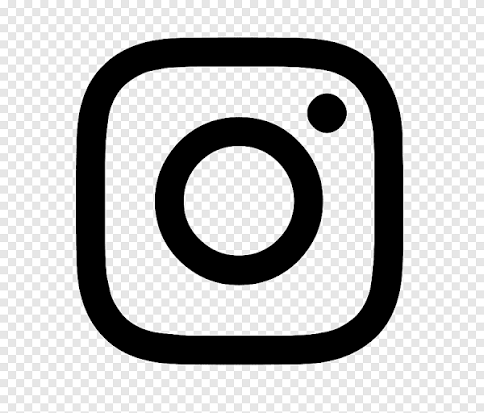
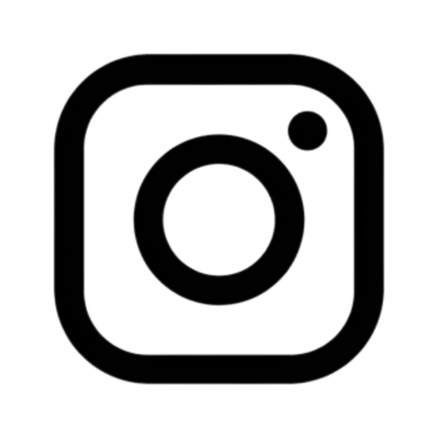
Differentiate package tiers and refine mobile branding

diff --git a/app/globals.css b/app/globals.css
@@ -1,5 +1,13 @@
 @import "tailwindcss";
 
+@font-face {
+  font-family: "A11 Calligraphy";
+  src: url("/fonts/yuji-syuku-a11.ttf") format("truetype");
+  font-display: swap;
+  font-style: normal;
+  font-weight: 400;
+}
+
 :root {
   --brown: #694728;
   --brown-deep: #35271d;
@@ -67,12 +75,11 @@ button, a { -webkit-tap-highlight-color: transparent; }
 .header-socials { display: flex; align-items: center; gap: 8px; }
 .header-social-link { width: 46px; height: 46px; display: grid; place-items: center; overflow: hidden; border: 1px solid rgba(105,71,40,.2); border-radius: 50%; color: var(--brown-deep); background: rgba(255,253,248,.6); transition: color .25s ease, border-color .25s ease, background .25s ease, transform .35s cubic-bezier(.16,1,.3,1); }
 .header-social-link:hover, .header-social-link:focus-visible { color: var(--brown); border-color: rgba(105,71,40,.55); background: var(--paper); transform: translateY(-3px); outline: none; }
-.social-logo-image { display: block; width: 31px; height: 31px; object-fit: contain; }
-.social-logo-line { width: 34px; height: 28px; }
-.social-logo-xiaohongshu { width: 46px; height: 46px; object-fit: cover; transform: scale(1.42); }
-.header-social-hiwin { width: 112px; height: 46px; margin-left: 7px; padding-left: 16px; overflow: visible; border: 0; border-left: 1px solid var(--line); border-radius: 0; background: transparent; }
+.social-logo-image { display: block; width: 31px; height: 31px; object-fit: contain; mix-blend-mode: multiply; }
+.social-logo-line, .social-logo-xiaohongshu { width: 31px; height: 31px; object-fit: contain; transform: none; }
+.header-social-hiwin { width: 156px; height: 52px; margin-left: 9px; padding-left: 19px; overflow: visible; border: 0; border-left: 1px solid var(--line); border-radius: 0; background: transparent; }
 .header-social-hiwin:hover, .header-social-hiwin:focus-visible { border-color: var(--beige); background: transparent; }
-.header-social-hiwin img { width: 94px; height: auto; object-fit: contain; }
+.header-social-hiwin img { width: 136px; height: auto; object-fit: contain; }
 .button { display: inline-flex; justify-content: center; align-items: center; min-height: 50px; padding: 0 24px; background: var(--brown); color: white; border: 1px solid var(--brown); border-radius: 999px; font-size: .82rem; letter-spacing: .04em; transition: transform .25s ease, background .25s ease; cursor: pointer; }
 .button:hover { transform: translateY(-2px); background: #583b22; }
 .button-small { min-height: 42px; padding-inline: 19px; white-space: nowrap; }
@@ -122,7 +129,7 @@ h3 { margin-bottom: 14px; font-size: clamp(1.45rem, 2.2vw, 2rem); }
 .section-compact { padding: 72px 0; }
 .section-tint { background: var(--beige-soft); }
 .section-paper { background: var(--paper); }
-.section-heading { max-width: 760px; margin-bottom: 48px; }
+.section-heading { max-width: 900px; margin-bottom: 48px; }
 .section-heading > p:last-child { max-width: 640px; color: #5d554d; font-size: 1.05rem; }
 .split { display: grid; grid-template-columns: 1fr 1fr; gap: 80px; align-items: start; }
 .split-copy { max-width: 540px; }
@@ -289,6 +296,25 @@ h3 { margin-bottom: 14px; font-size: clamp(1.45rem, 2.2vw, 2rem); }
 .package-showcase:has(.package-showcase-card:hover) .package-showcase-card:not(:hover) .package-showcase-image img { filter: saturate(.78) brightness(.9); }
 .package-showcase-image-shade { position: absolute; inset: 0; background: linear-gradient(180deg, transparent 45%, rgba(40,28,18,.24)); pointer-events: none; }
 .package-showcase-copy { position: relative; min-width: 0; display: flex; flex-direction: column; padding: 32px 28px 70px; }
+.package-level-meter { position: absolute; z-index: 2; top: 16px; right: 16px; height: 42px; padding: 9px 11px; display: flex; align-items: flex-end; gap: 5px; border: 1px solid rgba(255,255,255,.32); border-radius: 999px; background: rgba(44,31,22,.34); backdrop-filter: blur(12px); }
+.package-level-meter i { width: 3px; border-radius: 999px; background: rgba(255,255,255,.34); }
+.package-level-meter i:nth-child(1) { height: 8px; }
+.package-level-meter i:nth-child(2) { height: 14px; }
+.package-level-meter i:nth-child(3) { height: 20px; }
+.package-level-meter i.is-active { background: #f1d8b8; box-shadow: 0 0 10px rgba(241,216,184,.34); }
+.package-showcase-card-essential { background: #fffdf8; }
+.package-showcase-card-essential .package-tier { background: rgba(255,253,248,.94); }
+.package-showcase-card-signature { border-color: rgba(150,104,59,.42); background: linear-gradient(145deg, #f7ecde, #ead5ba); box-shadow: 0 20px 54px rgba(112,73,38,.1); }
+.package-showcase-card-signature .package-tier { background: rgba(153,105,60,.92); color: white; }
+.package-showcase-card-signature .package-showcase-copy { background: linear-gradient(145deg, rgba(255,253,248,.5), rgba(222,194,160,.2)); }
+.package-showcase-card-prestige { border-color: rgba(216,188,154,.58); background: linear-gradient(145deg, #3c2c21, #241b15); box-shadow: 0 22px 60px rgba(39,27,19,.24); }
+.package-showcase-card-prestige .package-tier { border: 1px solid rgba(240,215,184,.32); background: rgba(45,32,23,.84); color: #f0d7b8; }
+.package-showcase-card-prestige .package-showcase-image-shade { background: linear-gradient(180deg, rgba(31,22,16,.04) 35%, rgba(31,22,16,.62)); }
+.package-showcase-card-prestige :is(h3, .package-showcase-price strong, .package-showcase-pillar b, .arrow-link) { color: #fff8ee; }
+.package-showcase-card-prestige :is(.eyebrow, .package-showcase-price small, .package-showcase-summary, .package-showcase-reason, .package-showcase-pillar p) { color: rgba(255,248,238,.7); }
+.package-showcase-card-prestige .package-showcase-reason span, .package-showcase-card-prestige .package-showcase-pillar > span { color: #e4c39d; }
+.package-showcase-card-prestige .package-showcase-pillar::before { background: linear-gradient(90deg, rgba(228,195,157,.72), rgba(228,195,157,.08)); }
+.package-showcase-card-prestige .arrow-link:hover, .package-showcase-card-prestige .arrow-link:focus-visible { color: #e4c39d; }
 .package-showcase-heading { display: grid; grid-template-columns: 1fr; gap: 10px; align-items: start; padding-top: 4px; }
 .package-showcase-heading h3 { margin: 2px 0 8px; font-size: clamp(1.75rem, 2.5vw, 2.55rem); line-height: 1.06; white-space: nowrap; }
 .package-showcase-price { display: grid; justify-items: start; color: var(--brown); }
@@ -305,7 +331,7 @@ h3 { margin-bottom: 14px; font-size: clamp(1.45rem, 2.2vw, 2rem); }
 .package-showcase-pillar { position: relative; display: grid; grid-template-columns: 32px 64px minmax(0, 1fr); gap: 10px; align-items: center; min-height: 43px; padding: 8px 0; }
 .package-showcase-pillar::before { content: ""; position: absolute; top: 0; left: 0; width: 100%; height: 1px; background: linear-gradient(90deg, var(--beige), rgba(105,71,40,.1)); transform: scaleX(0); transform-origin: left; transition: transform .72s cubic-bezier(.16,1,.3,1) calc(.62s + var(--pillar-order) * 45ms); }
 .package-showcase-card:hover .package-showcase-pillar::before { transform: scaleX(1); }
-.package-showcase-pillar > span { color: var(--brown); font-family: "Yu Mincho", Georgia, serif; font-size: 1.35rem; }
+.package-showcase-pillar > span { color: var(--brown); font-family: "A11 Calligraphy", "Yu Mincho", Georgia, serif; font-size: 1.55rem; line-height: 1; }
 .package-showcase-pillar b { color: var(--brown); font-size: .66rem; letter-spacing: .1em; text-transform: uppercase; }
 .package-showcase-pillar p { margin: 0; color: #5f564d; font-size: .78rem; white-space: nowrap; overflow: hidden; text-overflow: ellipsis; }
 .package-showcase-actions { position: absolute; z-index: 6; right: 28px; bottom: 22px; display: flex; justify-content: flex-end; }
@@ -333,9 +359,9 @@ h3 { margin-bottom: 14px; font-size: clamp(1.45rem, 2.2vw, 2rem); }
 .service-pillar-copy { position: relative; min-height: 285px; padding: 24px; overflow: hidden; }
 .service-pillar-copy h2, .service-pillar-copy h3 { position: relative; z-index: 1; font-size: clamp(1.65rem, 2.5vw, 2.25rem); }
 .service-pillar-copy > p { position: relative; z-index: 1; color: #62584f; font-size: .82rem; }
-.service-kanji { position: absolute; right: -4px; bottom: -20px; color: var(--brown); font-family: "Yu Mincho", Georgia, serif; font-size: 9rem; line-height: 1; opacity: .07; }
+.service-kanji { position: absolute; right: -18px; bottom: -38px; color: var(--brown); font-family: "A11 Calligraphy", "Yu Mincho", Georgia, serif; font-size: 12.5rem; font-weight: 400; line-height: .9; opacity: .08; transform: rotate(-4deg); }
 .comparison-row { display: grid; grid-template-columns: repeat(5, 1fr); overflow: hidden; border: 1px solid var(--line); border-radius: 18px; background: var(--paper); }
-.comparison-row span { display: grid; gap: 8px; place-items: center; padding: 28px 16px; border-right: 1px solid var(--line); color: var(--brown); font-family: "Yu Mincho", Georgia, serif; font-size: 2.5rem; }
+.comparison-row span { display: grid; gap: 8px; place-items: center; padding: 28px 16px; border-right: 1px solid var(--line); color: var(--brown); font-family: "A11 Calligraphy", "Yu Mincho", Georgia, serif; font-size: 3rem; }
 .comparison-row span:last-child { border-right: 0; }
 .comparison-row b { font-family: var(--font); font-size: .72rem; letter-spacing: .12em; text-transform: uppercase; }
 
@@ -376,7 +402,7 @@ h3 { margin-bottom: 14px; font-size: clamp(1.45rem, 2.2vw, 2rem); }
 .package-chapter-copy { display: flex; flex-direction: column; justify-content: center; padding: clamp(42px, 5vw, 88px); }
 .package-chapter-number { display: flex; justify-content: space-between; align-items: start; margin-bottom: 42px; color: var(--brown); }
 .package-chapter-number span { font-size: .72rem; font-weight: 750; letter-spacing: .16em; }
-.package-chapter-number b { color: var(--beige); font-family: "Yu Mincho", Georgia, serif; font-size: clamp(3.8rem, 5vw, 6rem); font-weight: 400; line-height: .7; }
+.package-chapter-number b { color: var(--beige); font-family: "A11 Calligraphy", "Yu Mincho", Georgia, serif; font-size: clamp(4.4rem, 6vw, 7.2rem); font-weight: 400; line-height: .7; }
 .package-chapter-copy h2 { max-width: 10ch; margin-bottom: 22px; font-size: clamp(2.6rem, 4.5vw, 5.4rem); line-height: .95; }
 .package-chapter-lead { max-width: 660px; color: #544a40; font-size: clamp(1rem, 1.2vw, 1.22rem); line-height: 1.7; }
 .package-chapter-lead sup { color: var(--brown); font-weight: 700; }
@@ -397,7 +423,7 @@ h3 { margin-bottom: 14px; font-size: clamp(1.45rem, 2.2vw, 2rem); }
 .package-confirmation-grid > div:last-child { font-size: 1.08rem; line-height: 1.75; }
 .package-pillar-grid { display: grid; grid-template-columns: repeat(5, 1fr); gap: 1px; overflow: hidden; border: 1px solid var(--line); border-radius: 20px; background: var(--line); }
 .package-pillar { min-height: 300px; padding: 26px; background: var(--ivory); }
-.package-pillar > span { color: var(--brown); font-family: "Yu Mincho", Georgia, serif; font-size: 4.8rem; opacity: .18; }
+.package-pillar > span { color: var(--brown); font-family: "A11 Calligraphy", "Yu Mincho", Georgia, serif; font-size: 6.2rem; line-height: 1; opacity: .18; }
 .package-pillar p:last-child { color: #62584f; font-size: .82rem; }
 
 .partner-grid { display: grid; grid-template-columns: repeat(2, minmax(0, 1fr)); gap: 22px; }
@@ -455,7 +481,7 @@ h3 { margin-bottom: 14px; font-size: clamp(1.45rem, 2.2vw, 2rem); }
 .destination-facts small { color: var(--stone); font-size: .62rem; letter-spacing: .12em; text-transform: uppercase; }
 .destination-pillar-grid { display: grid; gap: 14px; }
 .destination-pillar { display: grid; grid-template-columns: 110px 1fr; gap: 24px; align-items: center; min-height: 180px; padding: 26px 32px; border: 1px solid var(--line); border-radius: 20px; background: var(--ivory); }
-.destination-pillar > span { color: var(--brown); font-family: "Yu Mincho", Georgia, serif; font-size: 5rem; opacity: .18; }
+.destination-pillar > span { color: var(--brown); font-family: "A11 Calligraphy", "Yu Mincho", Georgia, serif; font-size: 6rem; line-height: 1; opacity: .18; }
 .destination-pillar h3 { margin-bottom: 10px; font-size: clamp(1.4rem, 2.3vw, 2rem); }
 .destination-pillar div > p:last-child { margin-bottom: 0; color: #62584f; }
 .destination-highlight-list { border-top: 1px solid var(--line); }
@@ -468,7 +494,7 @@ h3 { margin-bottom: 14px; font-size: clamp(1.45rem, 2.2vw, 2rem); }
 .experience-choice-list article p { margin: 0; color: #554c43; }
 .experience-choice-note { margin-top: 18px; color: var(--stone); font-size: .72rem; }
 
-@media (max-width: 1320px) {
+@media (max-width: 1500px) {
   .header-plan-button { display: none; }
 }
 
@@ -477,7 +503,7 @@ h3 { margin-bottom: 14px; font-size: clamp(1.45rem, 2.2vw, 2rem); }
   .wordmark { width: 220px; }
   .primary-nav, .header-actions { display: none; }
   .mobile-navigation { display: block; justify-self: end; }
-  .mobile-menu-trigger { min-width: 116px; min-height: 48px; padding: 0 18px; display: flex; align-items: center; justify-content: space-between; gap: 16px; border: 1px solid rgba(105,71,40,.38); border-radius: 999px; color: var(--brown-deep); background: rgba(255,253,248,.72); font-size: .7rem; font-weight: 750; letter-spacing: .15em; text-transform: uppercase; list-style: none; cursor: pointer; }
+  .mobile-menu-trigger { width: 48px; min-width: 48px; min-height: 48px; padding: 0; display: grid; place-items: center; border: 1px solid rgba(105,71,40,.38); border-radius: 50%; color: var(--brown-deep); background: rgba(255,253,248,.72); list-style: none; cursor: pointer; }
   .mobile-menu-trigger::-webkit-details-marker { display: none; }
   .mobile-menu-trigger i { position: relative; width: 20px; height: 12px; display: block; }
   .mobile-menu-trigger b { position: absolute; left: 0; width: 20px; height: 1px; background: currentColor; transition: transform .35s cubic-bezier(.16,1,.3,1), top .35s cubic-bezier(.16,1,.3,1); }
@@ -495,8 +521,12 @@ h3 { margin-bottom: 14px; font-size: clamp(1.45rem, 2.2vw, 2rem); }
   .mobile-nav-children a { color: rgba(247,238,228,.72); font-size: .75rem; line-height: 1.35; }
   .mobile-nav-footer { margin-top: 34px; padding-top: 24px; display: flex; align-items: center; justify-content: space-between; gap: 20px; border-top: 1px solid rgba(216,188,154,.3); }
   .mobile-nav-footer .button { flex: 0 1 220px; }
-  .mobile-header-socials .header-social-link { border-color: rgba(255,255,255,.26); background: rgba(255,255,255,.86); }
-  .mobile-header-socials .header-social-hiwin { border: 0; background: white; border-radius: 4px; padding: 0 8px; }
+  .header-socials.mobile-header-socials { justify-content: flex-start; gap: 14px; }
+  .mobile-header-socials .header-social-link { width: 36px; height: 36px; overflow: visible; border: 0; border-radius: 0; background: transparent; }
+  .mobile-header-socials .header-social-link:hover, .mobile-header-socials .header-social-link:focus-visible { border: 0; background: transparent; transform: translateY(-2px); }
+  .mobile-header-socials .social-logo-image { width: 34px; height: 34px; opacity: .9; filter: invert(1); mix-blend-mode: screen; }
+  .mobile-header-socials .header-social-hiwin { width: 118px; height: 36px; margin-left: 2px; padding: 0; border: 0; border-radius: 0; background: transparent; }
+  .mobile-header-socials .header-social-hiwin img { width: 118px; filter: invert(1); opacity: .88; }
   .header-social-link { width: 42px; height: 42px; }
   .header-social-hiwin { width: 100px; height: 42px; padding-left: 14px; }
   .header-social-hiwin img { width: 84px; }
@@ -536,7 +566,7 @@ h3 { margin-bottom: 14px; font-size: clamp(1.45rem, 2.2vw, 2rem); }
   .shell, .narrow { width: min(100% - 30px, 1180px); }
   .nav-row { min-height: 82px; gap: 12px; padding-inline: 15px; }
   .wordmark { width: 155px; }
-  .mobile-menu-trigger { min-width: 104px; min-height: 44px; padding-inline: 16px; }
+  .mobile-menu-trigger { width: 44px; min-width: 44px; min-height: 44px; padding: 0; }
   .mobile-nav-panel { max-height: calc(100svh - 82px); padding: 28px 15px 24px; }
   .mobile-nav-list { gap: 25px 18px; }
   .mobile-nav-parent { grid-template-columns: 22px 1fr; gap: 5px; font-size: 1.08rem; }
@@ -544,7 +574,7 @@ h3 { margin-bottom: 14px; font-size: clamp(1.45rem, 2.2vw, 2rem); }
   .mobile-nav-children a { font-size: .68rem; }
   .mobile-nav-footer { align-items: stretch; flex-direction: column; }
   .mobile-nav-footer .button { width: 100%; flex-basis: auto; }
-  .mobile-header-socials { justify-content: space-between; }
+  .header-socials.mobile-header-socials { justify-content: flex-start; gap: 12px; }
   .header-socials { gap: 4px; }
   .header-social-link { width: 34px; height: 34px; }
   .social-logo-image { width: 24px; height: 24px; }
@@ -569,7 +599,7 @@ h3 { margin-bottom: 14px; font-size: clamp(1.45rem, 2.2vw, 2rem); }
   .service-pillar:last-child, .package-pillar:last-child { grid-column: auto; }
   .comparison-row { display: grid; grid-template-columns: none; grid-auto-flow: column; grid-auto-columns: 72vw; overflow-x: auto; scroll-snap-type: inline mandatory; scrollbar-width: none; }
   .comparison-row::-webkit-scrollbar { display: none; }
-  .comparison-row span { min-height: 150px; grid-template-columns: 1fr; justify-items: center; border-right: 1px solid var(--line); border-bottom: 0; font-size: 2.4rem; scroll-snap-align: start; }
+  .comparison-row span { min-height: 150px; grid-template-columns: 1fr; justify-items: center; border-right: 1px solid var(--line); border-bottom: 0; font-size: 3.3rem; scroll-snap-align: start; }
   .package-detail-hero { width: 100%; min-height: 0; margin-top: 0; border: 0; border-radius: 0; }
   .package-detail-image { min-height: 430px; }
   .package-detail-copy { padding: 58px 20px 64px; }
@@ -625,7 +655,7 @@ h3 { margin-bottom: 14px; font-size: clamp(1.45rem, 2.2vw, 2rem); }
   .destination-detail-visual { min-height: 420px; }
   .destination-detail-copy { padding: 56px 20px; }
   .destination-pillar { grid-template-columns: 64px 1fr; padding: 24px 20px; }
-  .destination-pillar > span { font-size: 3.4rem; }
+  .destination-pillar > span { font-size: 4.4rem; }
   .step { grid-template-columns: 48px 1fr; gap: 20px; }
   .step p { grid-column: 2; }
   .property-hero-copy { padding: 58px 20px; }

diff --git a/components/site-shell.tsx b/components/site-shell.tsx
@@ -44,13 +44,13 @@ const nav: NavItem[] = [
 function HeaderSocialLinks({ mobile = false }: { mobile?: boolean }) {
   return <div className={`header-socials${mobile ? " mobile-header-socials" : ""}`} role="group" aria-label="Social media and company links">
     <Link className="header-social-link" href="https://www.instagram.com/zhuyi_hotel/" target="_blank" rel="noreferrer" aria-label="Apartment Hotel 11 on Instagram" title="Instagram">
-      <Image className="social-logo-image social-logo-instagram" src="/images/social-instagram.png" alt="" width={484} height={413} unoptimized />
+      <Image className="social-logo-image social-logo-instagram" src="/images/social-instagram.png" alt="" width={438} height={438} unoptimized />
     </Link>
     <Link className="header-social-link" href="https://line.me/ti/p/OPyUC3OZo9" target="_blank" rel="noreferrer" aria-label="Apartment Hotel 11 on LINE" title="LINE">
-      <Image className="social-logo-image social-logo-line" src="/images/social-line.png" alt="" width={592} height={337} unoptimized />
+      <Image className="social-logo-image social-logo-line" src="/images/social-line.png" alt="" width={438} height={438} unoptimized />
     </Link>
     <Link className="header-social-link" href="https://www.xiaohongshu.com/user/profile/665d65e4000000000303207a?xhsshare=CopyLink&appuid=665d65e4000000000303207a&apptime=1721635778" target="_blank" rel="noreferrer" aria-label="Apartment Hotel 11 on Xiaohongshu" title="Xiaohongshu">
-      <Image className="social-logo-image social-logo-xiaohongshu" src="/images/social-xiaohongshu.png" alt="" width={447} height={447} unoptimized />
+      <Image className="social-logo-image social-logo-xiaohongshu" src="/images/social-xiaohongshu.png" alt="" width={438} height={438} unoptimized />
     </Link>
     <Link className="header-social-link header-social-hiwin" href="https://hiwin-japan.co.jp/" target="_blank" rel="noreferrer" aria-label="HIWIN corporate website" title="HIWIN Japan">
       <Image src="/images/hiwin_logo.png" alt="" width={1400} height={422} unoptimized />
@@ -60,8 +60,7 @@ function HeaderSocialLinks({ mobile = false }: { mobile?: boolean }) {
 
 function MobileNavigation() {
   return <details className="mobile-navigation">
-    <summary className="mobile-menu-trigger">
-      <span>Menu</span>
+    <summary className="mobile-menu-trigger" aria-label="Open or close navigation menu">
       <i aria-hidden="true"><b /><b /></i>
     </summary>
     <div className="mobile-nav-panel">

diff --git a/components/package-showcase.tsx b/components/package-showcase.tsx
@@ -9,7 +9,7 @@ export function PackageShowcase({ items }: { items: JourneyPackage[] }) {
     <div className="package-showcase">
       {items.map((item, index) => (
         <article
-          className="package-showcase-card"
+          className={`package-showcase-card package-showcase-card-${item.slug}`}
           key={item.slug}
           style={{ "--package-order": index } as CSSProperties}
         >
@@ -18,6 +18,9 @@ export function PackageShowcase({ items }: { items: JourneyPackage[] }) {
             <Image src={item.image} alt={item.imageAlt} fill sizes="(max-width: 900px) 100vw, 60vw" unoptimized />
             <div className="package-showcase-image-shade" />
             <span className="package-tier">{item.tier}</span>
+            <div className="package-level-meter" role="img" aria-label={`Service depth ${index + 1} of 3`}>
+              {[0, 1, 2].map((level) => <i className={level <= index ? "is-active" : ""} key={level} />)}
+            </div>
           </div>
           <div className="package-showcase-copy">
             <div className="package-showcase-heading">
